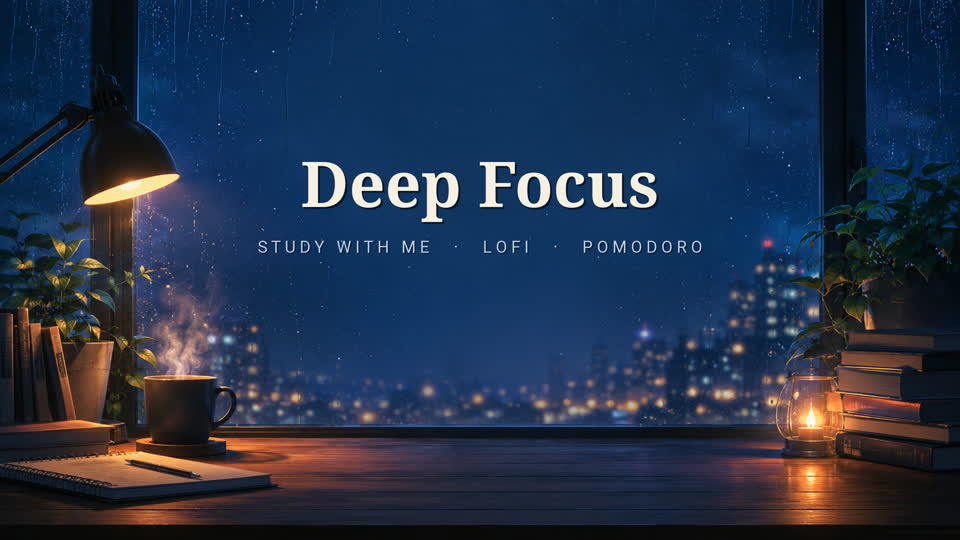
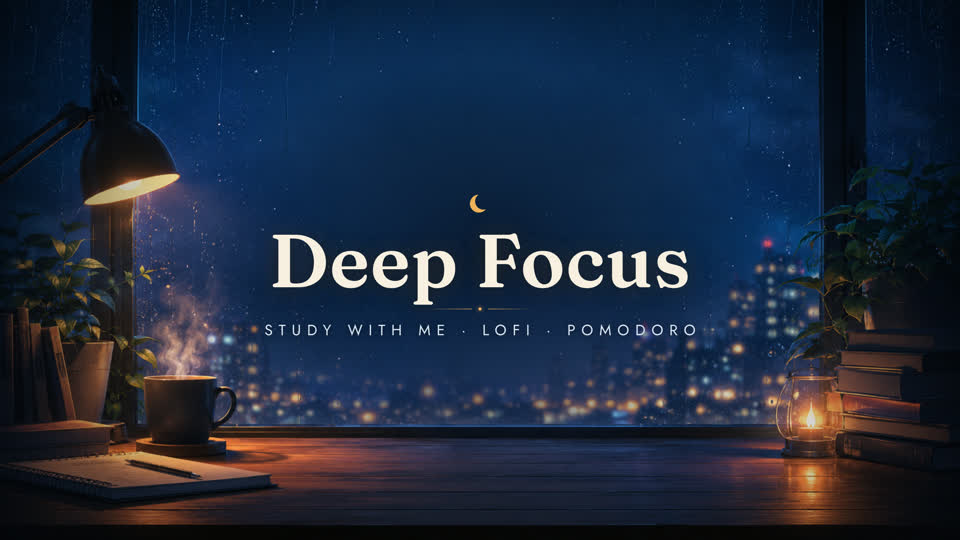
Ses düzeni: müzik sadece intro+geri sayım+molalarda; odakta yalnız çok kısık sahne sesi (gain 0.45) + fullclip.yml (parametreli parçalı tam render)

diff --git a/src/StudySession.tsx b/src/StudySession.tsx
@@ -137,7 +137,8 @@ const TimerBlock: React.FC<{
   keepAmbient: boolean;
   video?: VideoBg;
   ambientOverride?: string;
-}> = ({ style, totalSeconds, phaseFrames, label, accent, session, sessionTotal, music, musicVolume, keepAmbient, video, ambientOverride }) => {
+  ambientGain?: number; // sahne sesi seviyesi (odak: çok kısık)
+}> = ({ style, totalSeconds, phaseFrames, label, accent, session, sessionTotal, music, musicVolume, keepAmbient, video, ambientOverride, ambientGain }) => {
   const frame = useCurrentFrame();
   const { fps } = useVideoConfig();
   const theme = THEMES[style] ?? THEMES[0];
@@ -150,7 +151,11 @@ const TimerBlock: React.FC<{
       {sceneEl(style, video)}
       {amb === "storm" ? <Lightning phaseFrames={phaseFrames} /> : null}
       {keepAmbient ? (
-        <Ambient ambient={amb} phaseFrames={phaseFrames} gain={music ? 0.6 : 1} />
+        <Ambient
+          ambient={amb}
+          phaseFrames={phaseFrames}
+          gain={ambientGain ?? (music ? 0.6 : 1)}
+        />
       ) : null}
       {music ? (
         <Audio src={staticFile(music)} loop volume={(f) => musicFade(f, phaseFrames, fps, musicVolume)} />
@@ -232,7 +237,24 @@ export const StudySession: React.FC<StudyProps> = (p) => {
         if (ph.type === "intro") {
           return (
             <Sequence key={i} from={ph.from} durationInFrames={ph.dur}>
-              <Ambient ambient={theme.ambient} phaseFrames={ph.dur} gain={0.5} />
+              <Ambient
+                ambient={(p.ambientKey ?? theme.ambient) as AmbientKey}
+                phaseFrames={ph.dur}
+                gain={0.5}
+              />
+              {p.musicFocus ? (
+                <Audio
+                  src={staticFile(p.musicFocus)}
+                  volume={(f) =>
+                    interpolate(
+                      f,
+                      [0, 0.8 * fps, Math.max(0.8 * fps, ph.dur - 0.5 * fps), ph.dur],
+                      [0, p.musicVolume, p.musicVolume, p.musicVolume * 0.8],
+                      { extrapolateLeft: "clamp", extrapolateRight: "clamp" },
+                    )
+                  }
+                />
+              ) : null}
               <TitleCard main={p.introMain} sub={p.introSub} accent={theme.accentFocus} durationInFrames={ph.dur} />
             </Sequence>
           );
@@ -256,11 +278,12 @@ export const StudySession: React.FC<StudyProps> = (p) => {
                 accent={isFocus ? theme.accentFocus : theme.accentBreak}
                 session={ph.session}
                 sessionTotal={sessionTotal}
-                music={isFocus ? p.musicFocus : p.musicBreak}
+                music={isFocus ? "" : p.musicBreak}
                 musicVolume={p.musicVolume}
                 keepAmbient={p.keepAmbient}
                 video={video}
                 ambientOverride={p.ambientKey}
+                ambientGain={isFocus ? 0.45 : 0.6}
               />
             </Sequence>
           );
